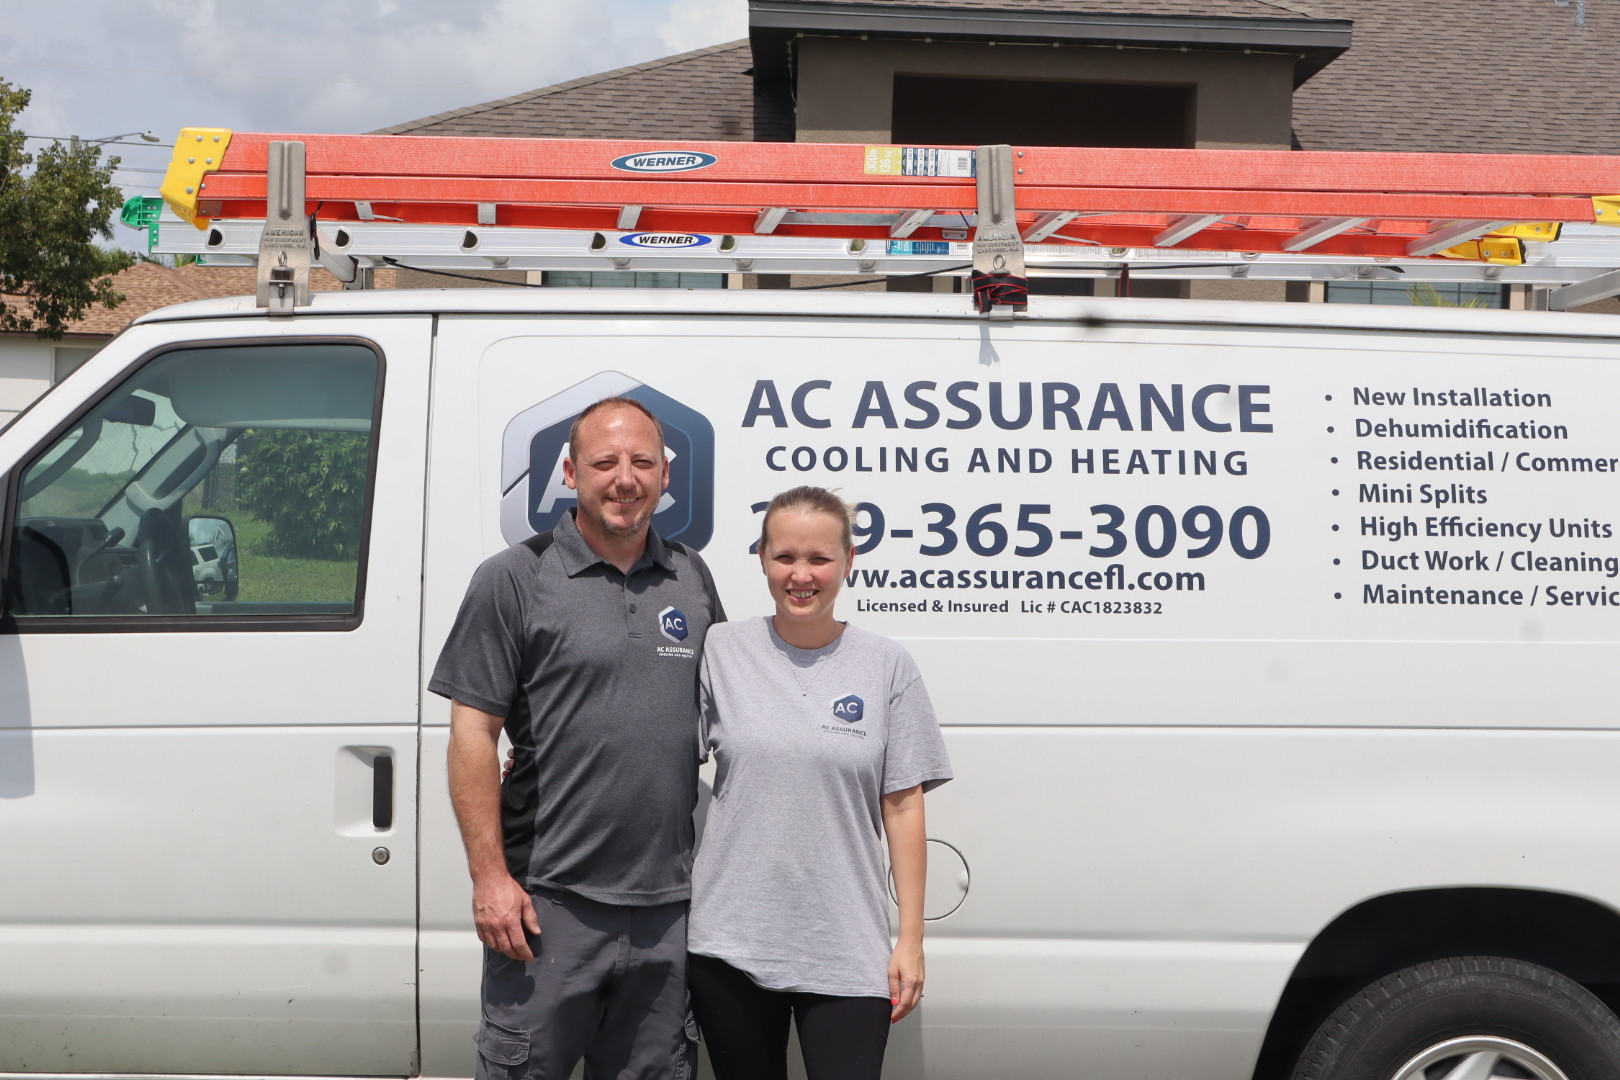
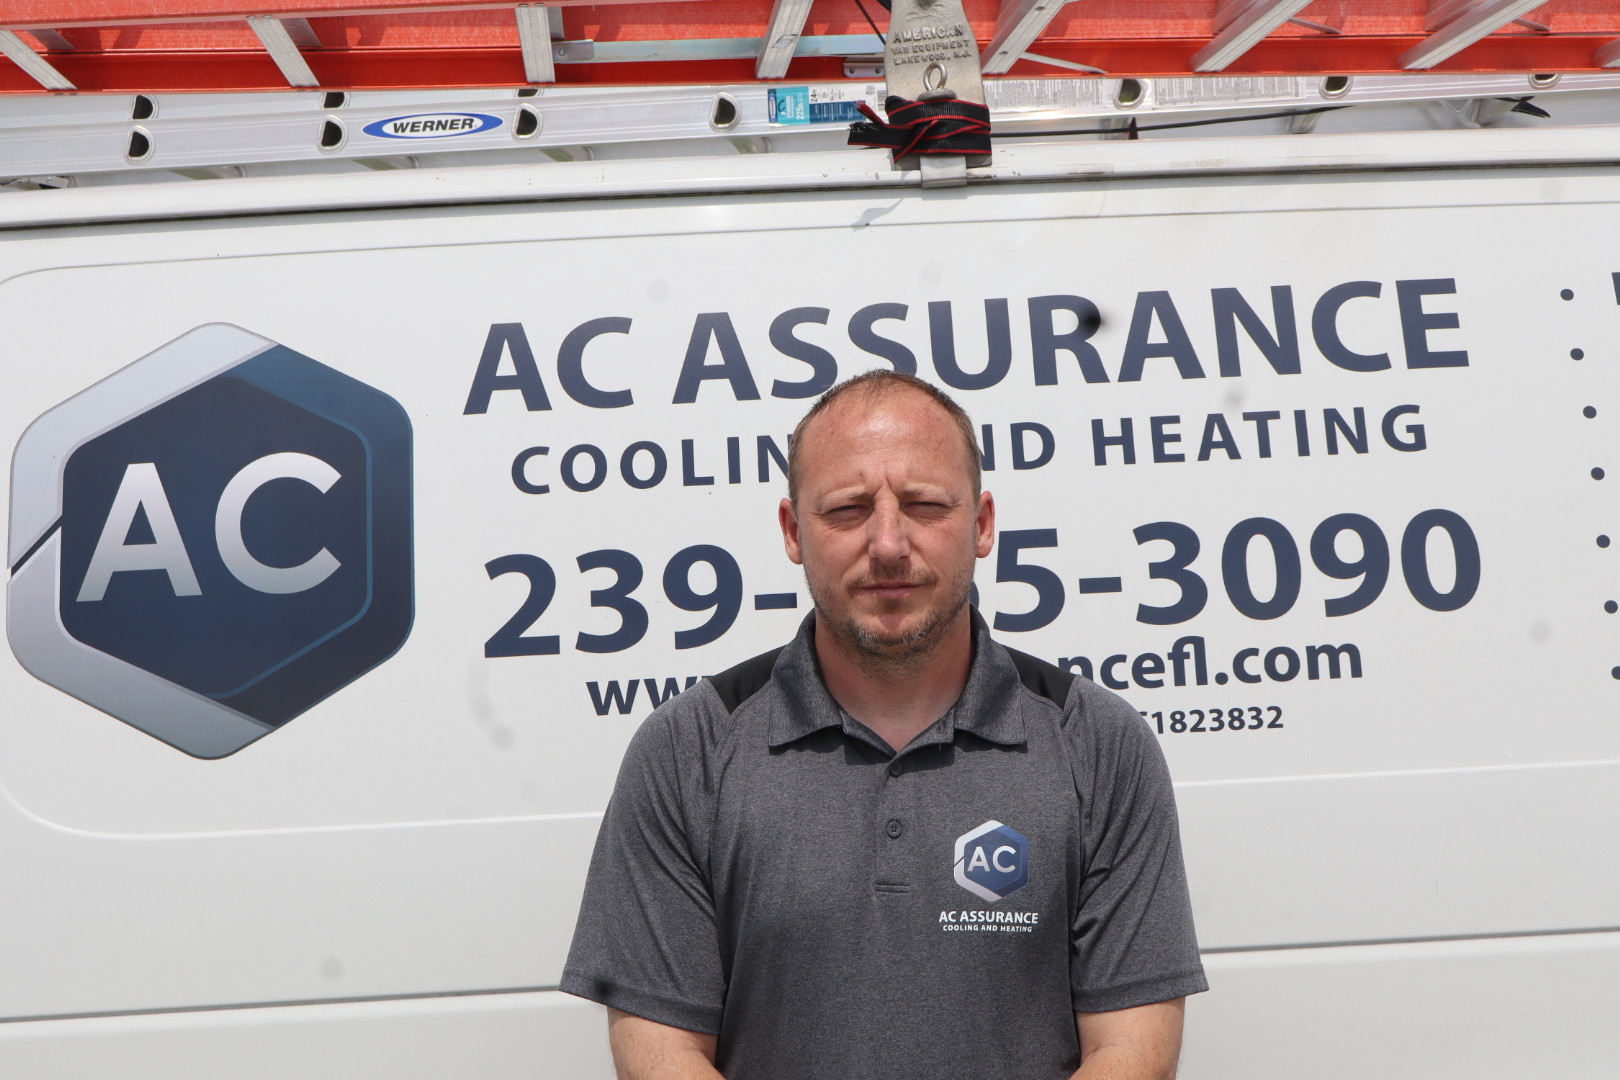
Changes

diff --git a/src/pages/Index.tsx b/src/pages/Index.tsx
@@ -80,11 +80,11 @@ const Index = () => {
             </div>
           </div>
           {/* Right — Owner image */}
-          <div className="relative md:w-[48%] h-[260px] md:h-auto md:min-h-[520px]">
+          <div className="relative md:w-[48%] h-[300px] md:h-auto md:min-h-[520px]">
             <img
               src={heroOwner}
               alt="Jason, owner of AC Assurance Cooling & Heating, standing next to branded service van"
-              className="w-full h-full object-cover object-[50%_30%] md:object-[55%_25%]"
+              className="w-full h-full object-cover object-[50%_65%] md:object-[50%_55%]"
               loading="eager"
             />
             {/* Desktop blend gradient */}
